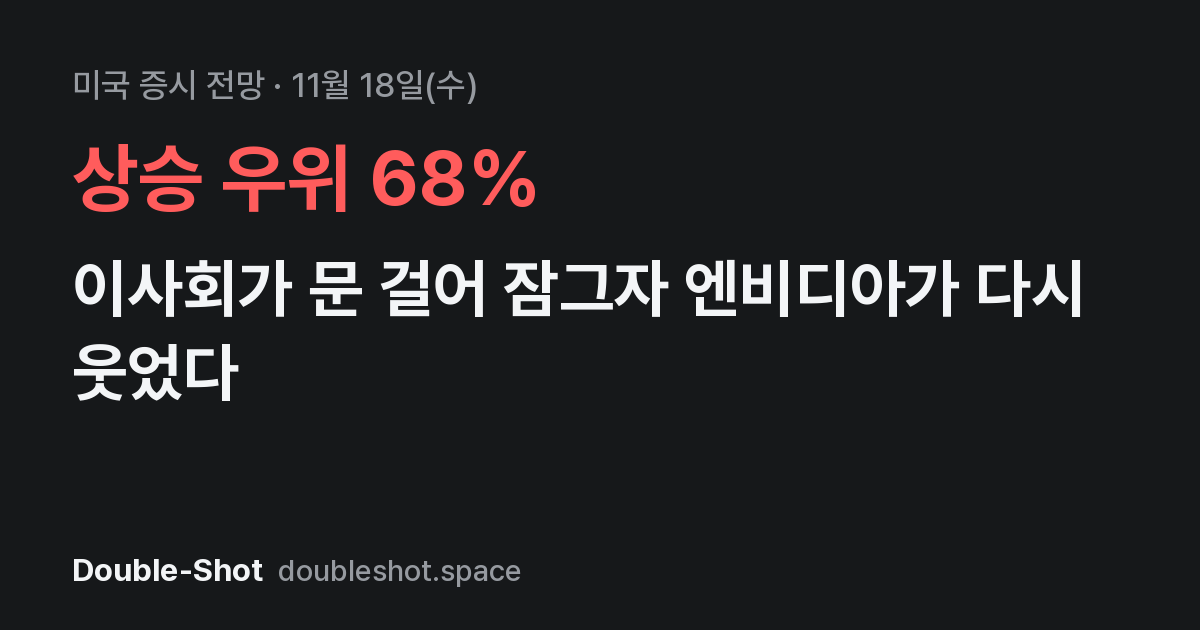
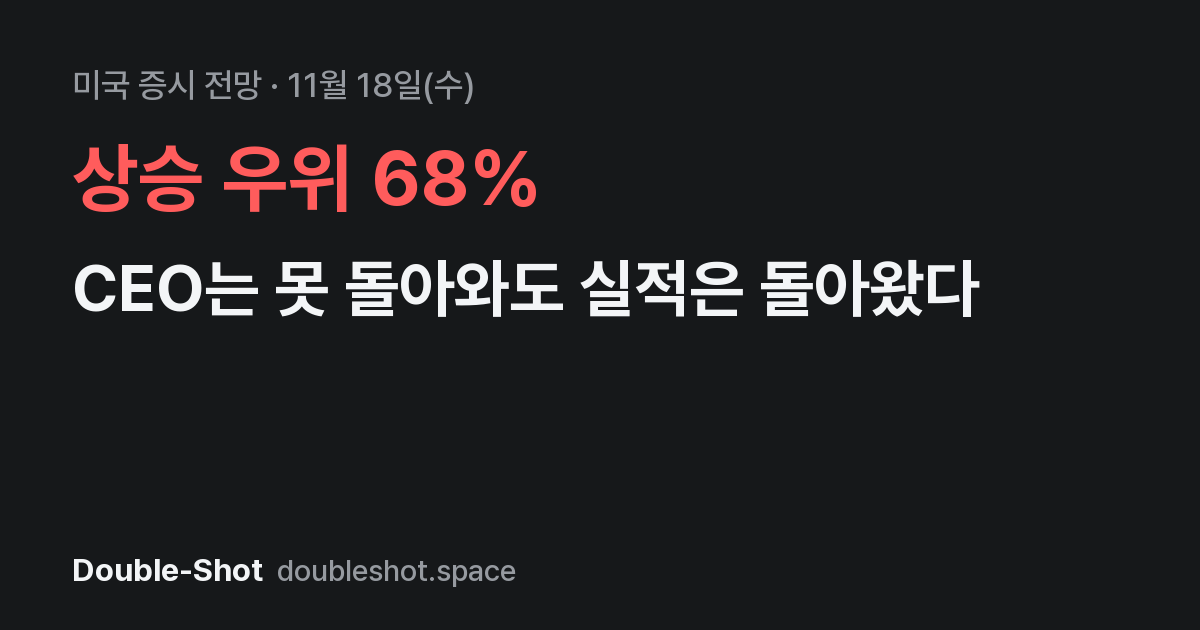
11/18 미국 브리핑 제목 교체 — 'CEO는 못 돌아와도 실적은 돌아왔다'
엔비디아 실적 카드가 게이트 결함으로 빠져 제목이 이사회 이야기로 쏠렸다. 제목·공유 카드·목록만 바꿨다(숫자 변화 없음).

diff --git a/web/briefings/2026-11-18/us/index.html b/web/briefings/2026-11-18/us/index.html
@@ -5,7 +5,7 @@
 <head>
 <meta charset="UTF-8">
 <meta name="viewport" content="width=device-width, initial-scale=1.0">
-<title>미국 증시 전망 11월 18일 | 이사회가 문 걸어 잠그자 엔비디아가 다시 웃었다 | 더블샷</title>
+<title>미국 증시 전망 11월 18일 | CEO는 못 돌아와도 실적은 돌아왔다 | 더블샷</title>
 <meta name="naver-site-verification" content="d2ac1feb412642dd359d2c5db626a1dffeaf8110" />
 <link rel="alternate" type="application/rss+xml" title="더블샷 브리핑" href="https://doubleshot.space/briefings/rss.xml">
 
@@ -15,15 +15,15 @@
 <meta property="og:site_name" content="더블샷(Double-Shot)">
 <meta property="og:locale" content="ko_KR">
 <meta property="og:url" content="https://doubleshot.space/briefings/2026-11-18/us/">
-<meta property="og:title" content="미국 증시 전망 11월 18일 | 이사회가 문 걸어 잠그자 엔비디아가 다시 웃었다 | 더블샷">
+<meta property="og:title" content="미국 증시 전망 11월 18일 | CEO는 못 돌아와도 실적은 돌아왔다 | 더블샷">
 <meta property="og:description" content="CEO 복귀 시도를 이사회가 막았다는 보도와 매출 전망 상향에 엔비디아가 반등하면서 밤새 패닉에 빠졌던 AI·반도체 심리가 한숨 돌렸어요. VIX도 꺾이고 선물도 플러스로 돌아선 가운데, 이 안도감이 하루짜리인지 지켜봐야 해요.">
 
 <meta property="og:image" content="https://doubleshot.space/briefings/2026-11-18/us/og.png">
 <meta name="twitter:card" content="summary_large_image">
-<meta name="twitter:title" content="미국 증시 전망 11월 18일 | 이사회가 문 걸어 잠그자 엔비디아가 다시 웃었다 | 더블샷">
+<meta name="twitter:title" content="미국 증시 전망 11월 18일 | CEO는 못 돌아와도 실적은 돌아왔다 | 더블샷">
 <meta name="twitter:description" content="CEO 복귀 시도를 이사회가 막았다는 보도와 매출 전망 상향에 엔비디아가 반등하면서 밤새 패닉에 빠졌던 AI·반도체 심리가 한숨 돌렸어요. VIX도 꺾이고 선물도 플러스로 돌아선 가운데, 이 안도감이 하루짜리인지 지켜봐야 해요.">
 <meta name="twitter:image" content="https://doubleshot.space/briefings/2026-11-18/us/og.png">
-<script type="application/ld+json">{"@context":"https://schema.org","@type":"NewsArticle","headline":"이사회가 문 걸어 잠그자 엔비디아가 다시 웃었다","alternativeHeadline":"미국 증시 전망 11월 18일","datePublished":"2026-11-18T21:17:11+09:00","dateModified":"2026-11-18T21:17:11+09:00","inLanguage":"ko-KR","mainEntityOfPage":"https://doubleshot.space/briefings/2026-11-18/us/","author":{"@type":"Organization","name":"더블샷","alternateName":"Double-Shot","url":"https://doubleshot.space/about/"},"publisher":{"@type":"Organization","name":"더블샷","alternateName":"Double-Shot","logo":{"@type":"ImageObject","url":"https://doubleshot.space/icons/icon-512.png"}},"image":"https://doubleshot.space/briefings/2026-11-18/us/og.png"}</script>
+<script type="application/ld+json">{"@context":"https://schema.org","@type":"NewsArticle","headline":"CEO는 못 돌아와도 실적은 돌아왔다","alternativeHeadline":"미국 증시 전망 11월 18일","datePublished":"2026-11-18T21:17:11+09:00","dateModified":"2026-11-18T21:17:11+09:00","inLanguage":"ko-KR","mainEntityOfPage":"https://doubleshot.space/briefings/2026-11-18/us/","author":{"@type":"Organization","name":"더블샷","alternateName":"Double-Shot","url":"https://doubleshot.space/about/"},"publisher":{"@type":"Organization","name":"더블샷","alternateName":"Double-Shot","logo":{"@type":"ImageObject","url":"https://doubleshot.space/icons/icon-512.png"}},"image":"https://doubleshot.space/briefings/2026-11-18/us/og.png"}</script>
 <script type="application/ld+json">{"@context":"https://schema.org","@type":"BreadcrumbList","itemListElement":[{"@type":"ListItem","position":1,"name":"홈","item":"https://doubleshot.space/stocks/"},{"@type":"ListItem","position":2,"name":"브리핑","item":"https://doubleshot.space/briefings/"},{"@type":"ListItem","position":3,"name":"미국 증시 전망 11월 18일"}]}</script>
 
 <link href="https://cdn.jsdelivr.net/gh/orioncactus/pretendard@v1.3.9/dist/web/variable/pretendardvariable-dynamic-subset.min.css" rel="stylesheet">
@@ -73,7 +73,7 @@
             
             <div class="open-section tv-lead up">
               <div class="tv-kicker">🧭 오늘의 관점</div>
-              <h1 class="tv-title">이사회가 문 걸어 잠그자 엔비디아가 다시 웃었다</h1>
+              <h1 class="tv-title">CEO는 못 돌아와도 실적은 돌아왔다</h1>
               <p class="tv-dek">CEO 복귀 시도를 이사회가 막았다는 보도와 매출 전망 상향에 <b>엔비디아</b>가 반등하면서 밤새 패닉에 빠졌던 AI·반도체 심리가 한숨 돌렸어요. VIX도 꺾이고 선물도 플러스로 돌아선 가운데, 이 안도감이 하루짜리인지 지켜봐야 해요.</p>
             </div>
             

diff --git a/web/stocks/index.html b/web/stocks/index.html
@@ -143,7 +143,7 @@
       <p class="rb-intro">매일 아침 코스피 시초가 예측, 오후 코스피 마감, 저녁 미국 시장 브리핑이 나가요. 토요일엔 한 주를 정리한 주간 장기 리포트가 나가요.</p>
       <ol class="rb-list">
       <!-- RECENT_BRIEFINGS:START -->
-      <li class="rb-item feat"><a href="/briefings/2026-11-18/us/"><div class="rb-meta">11/18(수) · 미국 시장</div><div class="rb-h">이사회가 문 걸어 잠그자 엔비디아가 다시 웃었다</div><div class="rb-d">CEO 복귀 시도를 이사회가 막았다는 보도와 매출 전망 상향에 <b>엔비디아</b>가 반등하면서 밤새 패닉에 빠졌던 AI·반도체 심리가 한숨 돌렸어요. VIX도 꺾이고 선물도 플러스로 돌아선 가운데, 이 안도감이 하루짜리인지 지켜봐야 해요.</div></a></li>
+      <li class="rb-item feat"><a href="/briefings/2026-11-18/us/"><div class="rb-meta">11/18(수) · 미국 시장</div><div class="rb-h">CEO는 못 돌아와도 실적은 돌아왔다</div><div class="rb-d">CEO 복귀 시도를 이사회가 막았다는 보도와 매출 전망 상향에 <b>엔비디아</b>가 반등하면서 밤새 패닉에 빠졌던 AI·반도체 심리가 한숨 돌렸어요. VIX도 꺾이고 선물도 플러스로 돌아선 가운데, 이 안도감이 하루짜리인지 지켜봐야 해요.</div></a></li>
       <li class="rb-item"><a href="/briefings/2026-11-18/close/"><div class="rb-meta">11/18(수) · 코스피 마감</div><div class="rb-h">하루 만에 도로 5000, 엔비디아가 코스피 심폐소생했다</div></a></li>
       <li class="rb-item"><a href="/briefings/2026-11-18/kospi/"><div class="rb-meta">11/18(수) · 코스피 예측</div><div class="rb-h">엔비디아 전 CEO 사임, 반도체 불안을 다시 깨웠다</div></a></li>
       <li class="rb-item"><a href="/briefings/2026-11-17/us/"><div class="rb-meta">11/17(화) · 미국 시장</div><div class="rb-h">대중국 AI칩 수출 전면 차단, 반도체가 바닥을 찾고 있어요</div></a></li>

diff --git a/web/briefings/index.html b/web/briefings/index.html
@@ -78,7 +78,7 @@
       <div class="arch-day__items">
         
         <a class="arch-item is-featured" href="/briefings/2026-11-18/us/">
-          <span class="arch-item__headline">이사회가 문 걸어 잠그자 엔비디아가 다시 웃었다</span>
+          <span class="arch-item__headline">CEO는 못 돌아와도 실적은 돌아왔다</span>
           <span class="arch-item__dek">CEO 복귀 시도를 이사회가 막았다는 보도와 매출 전망 상향에 <b>엔비디아</b>가 반등하면서 밤새 패닉에 빠졌던 AI·반도체 심리가 한숨 돌렸어요. VIX도 꺾이고 선물도 플러스로 돌아선 가운데, 이 안도감이 하루짜리인지 지켜봐야 해요.</span>
           <span class="arch-item__label">미국 시장</span>
         </a>
